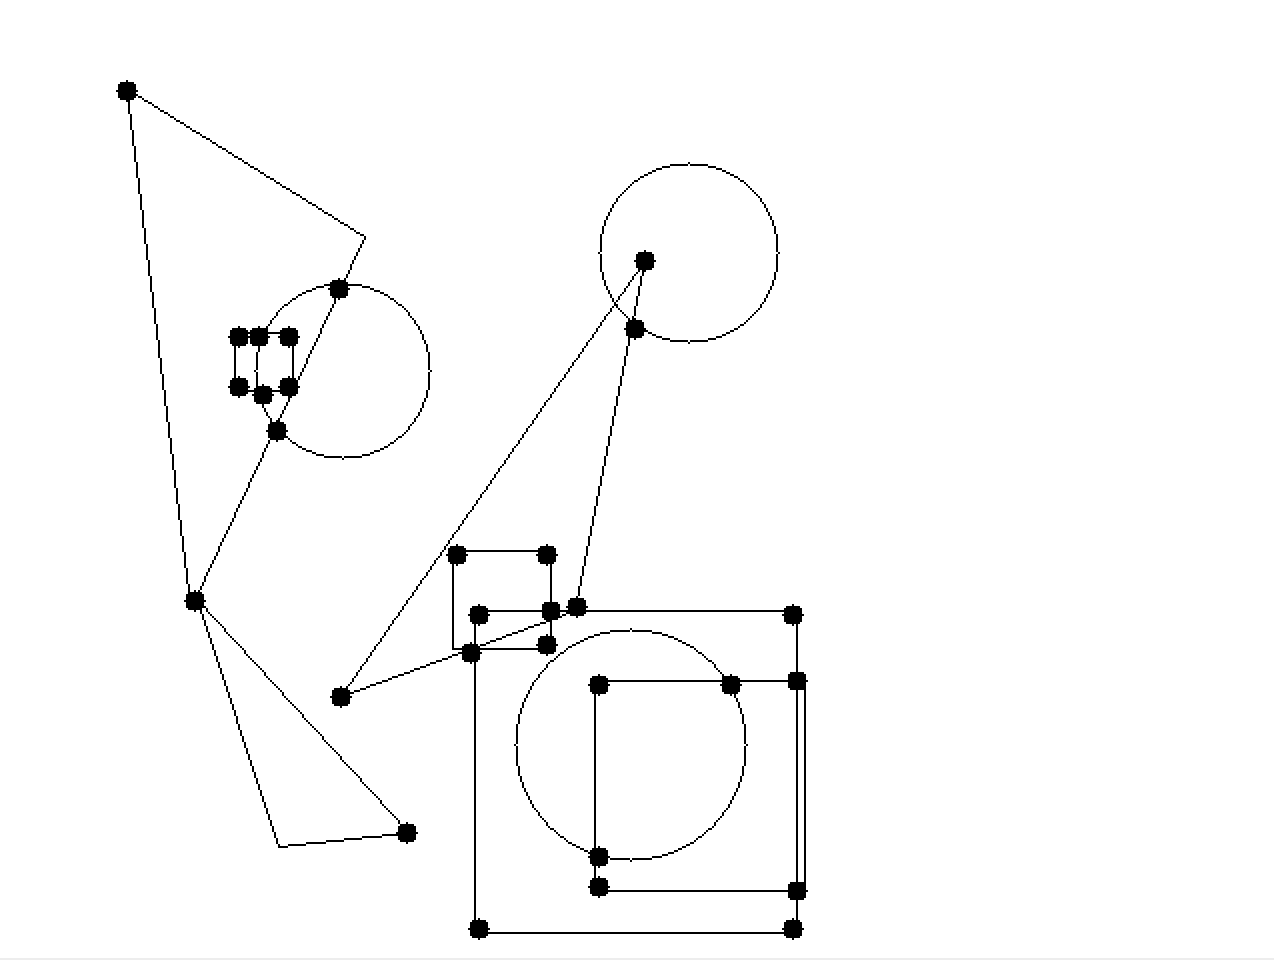
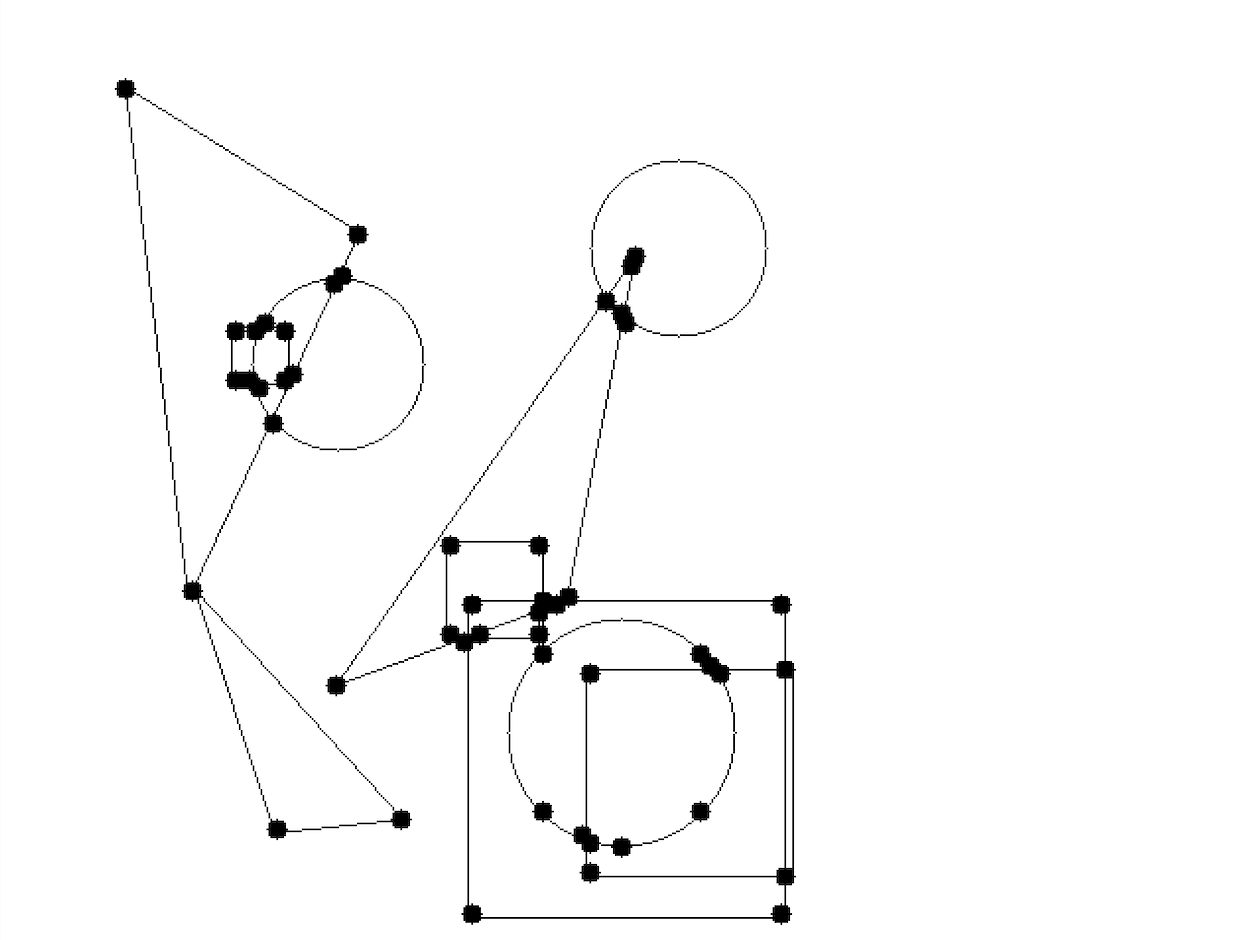
updated figures and readme

diff --git a/README.md b/README.md
@@ -28,7 +28,7 @@ sq: number of squares
 t: number of triangles
 sd: seed to random generator
 
-### Files
+#### Files
 * `shape_finder.py`: main file.
 * `utils/general_utils.py`: contains helper functions to generate images and find shapes.
 * `utils/square_utils.py` : contains helper functions used by the `find_squres()` function to check if a square was found. 
@@ -42,7 +42,7 @@ sd: seed to random generator
 
 ![](figures/circles.png)
 
-3. Next step is to find other shapes. To achieve this we find corner and critical points using the`find_corner_points()` function. This functions uses a modified Harris Corner Detector implemented in OpenCV by `cv2.goodFeaturesToTrack()` function. There are three adjustable aprameters here: quality of corner points, maximum number of points to find and minimum distance between points in pixel. The results below show the points found in this example. If there are any points missing we can adjust the parameters.
+3. Next step is to find other shapes. To achieve this we find corner and critical points using the`find_corner_points()` function. This functions uses a modified Harris Corner Detector implemented in OpenCV by `cv2.goodFeaturesToTrack()` [function](https://docs.opencv.org/master/d4/d8c/tutorial_py_shi_tomasi.html). There are three adjustable aprameters here: quality of corner points, maximum number of points to find and minimum distance between points in pixel. The results below show the points found in this example. If there are any points missing we can adjust the parameters.
 
 ![](figures/all_corners.png)
 
@@ -62,5 +62,5 @@ sd: seed to random generator
 3. We still have not found the triangles. To do that we can find all contours from the remaining points that can be formed three vertices. To ensure that we select the right triangle, we check to see all the lines in the detected contour conincide with a line from the image. If that is the case, then we can conclude that we have found a triangle. This is the part that I am still working on. 
 
 ### Limitations:
-1. The algorithm works the majority of the cases, however, it may require input from the user to tune the parameters. 
-2. The algorithm is slow since it has to check all combinations of the points. If we remove the points that are on the circle early in the process, the algorithm will become faster. 
+1. The algorithm is semi-automatic. While it can work for the majority of the cases, it may require user's input to tune the parameters and get the desired results.
+2. The algorithm can be very slow since it has to check all combinations of the points. If we remove the points that are on the circle early in the process, the algorithm will become faster. 
